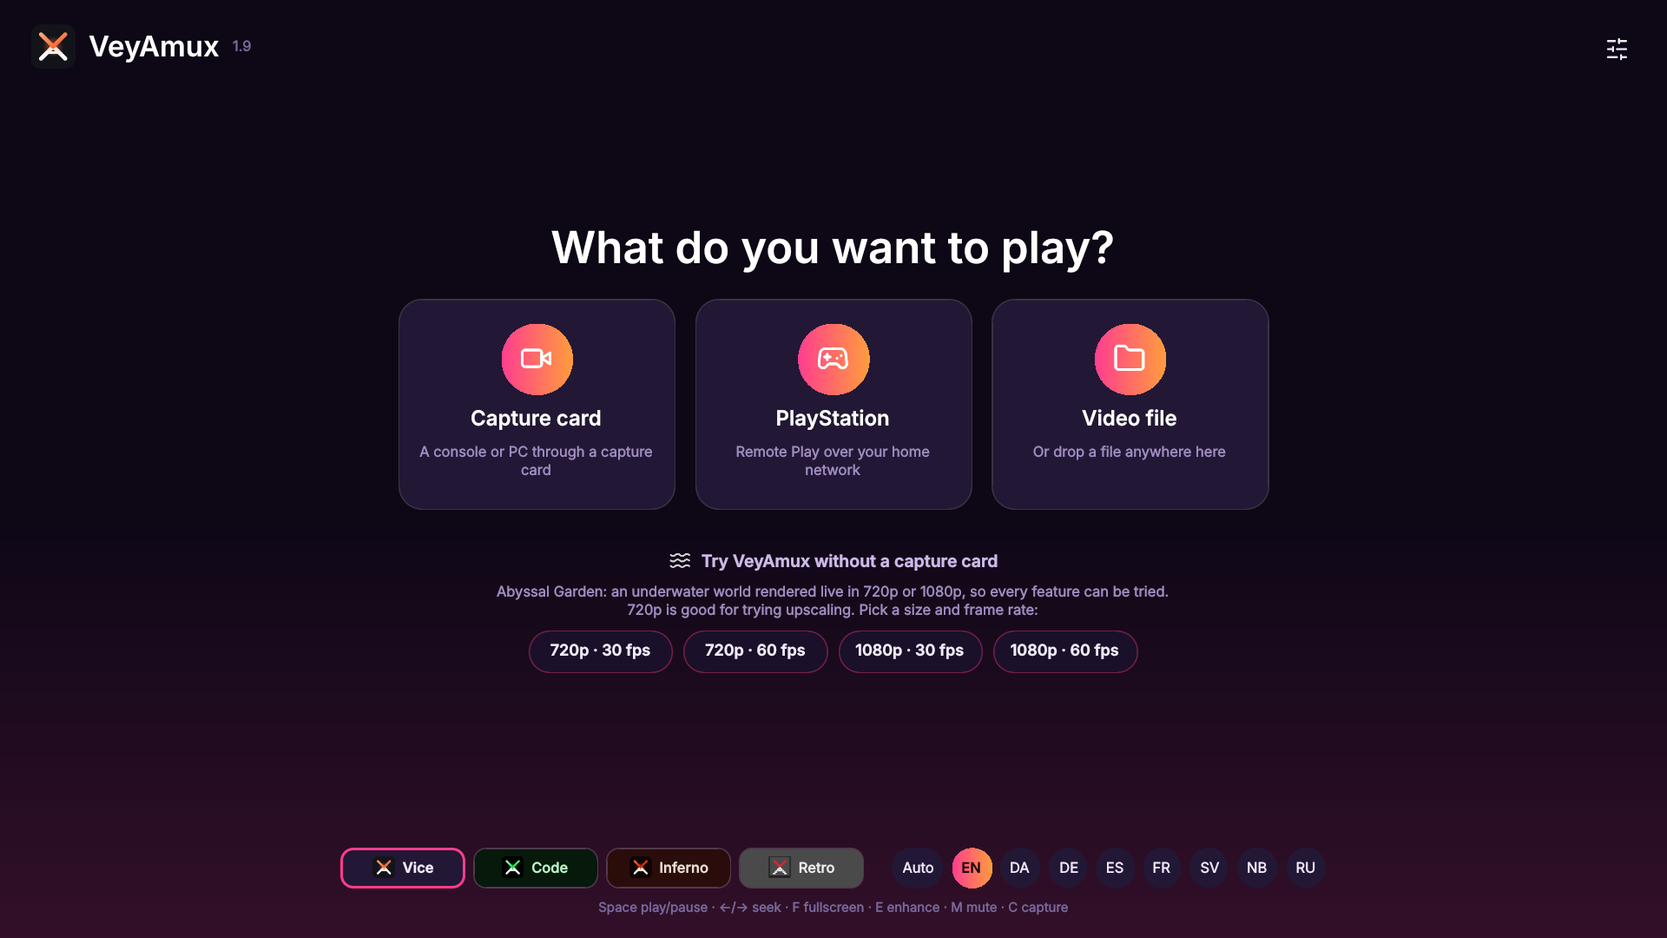
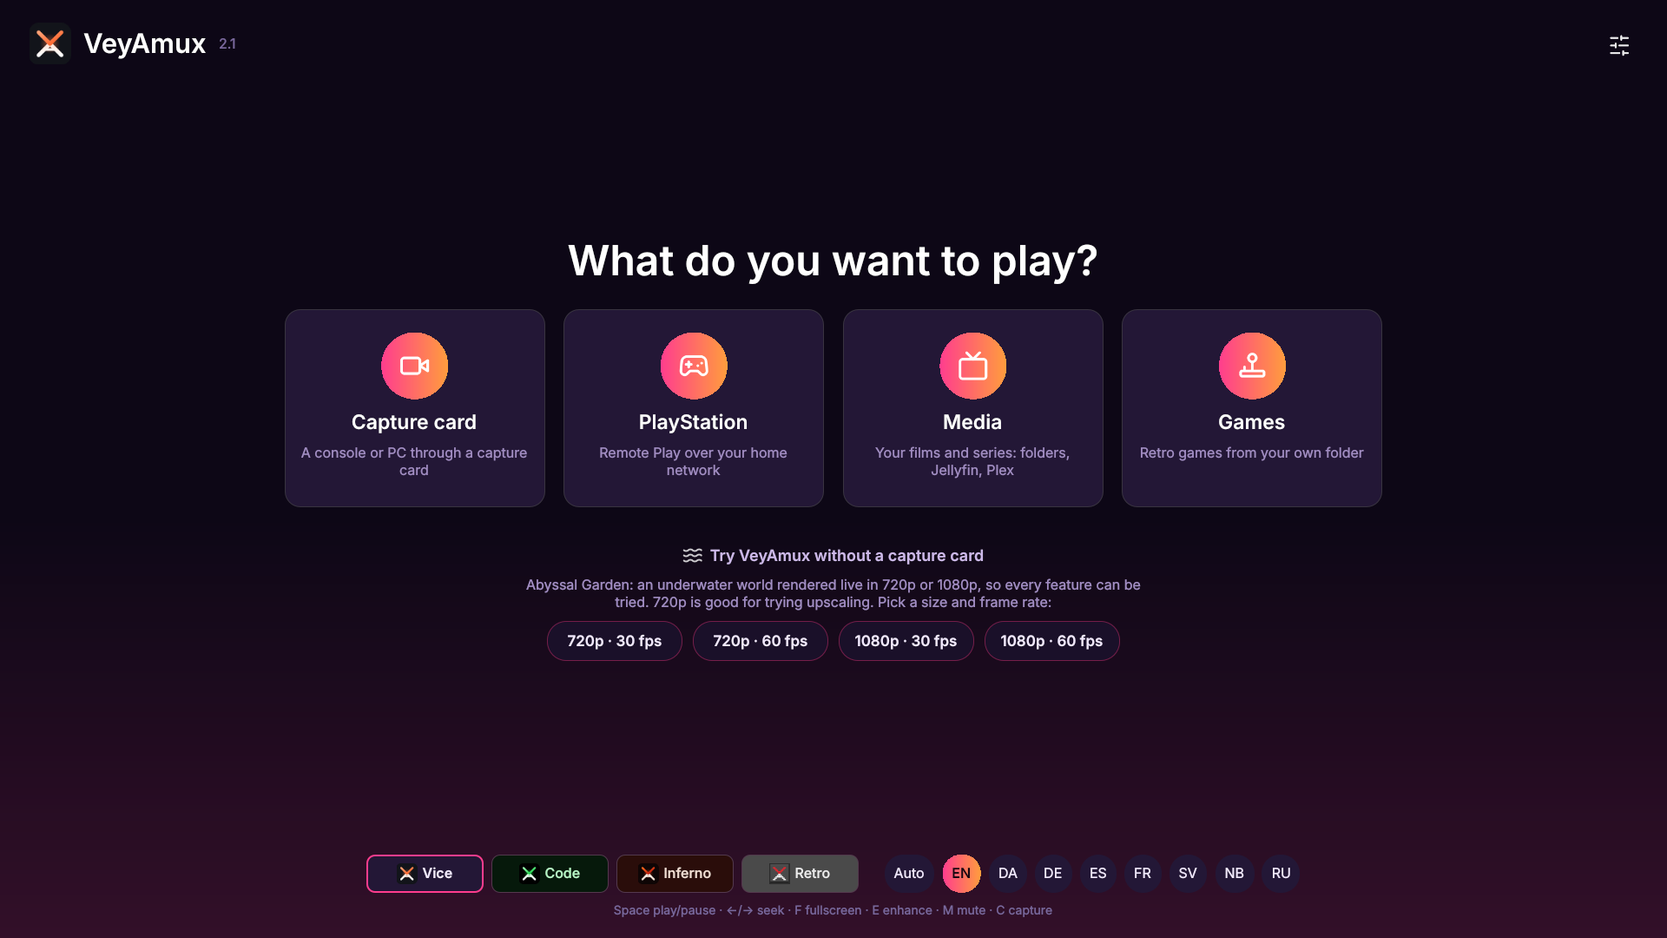
Sync linux/ with VeyAmux 2.1
Claude-Session: https://claude.ai/code/session_01B4TdVpLCa5512iQxziCMJs

diff --git a/linux/src/main.cpp b/linux/src/main.cpp
@@ -133,7 +133,7 @@ int main(int argc, char** argv) {
     QCoreApplication::setOrganizationName("VeyAmux");
     // VeyAmux Debug runs next to VeyAmux with its own settings (~/.config/VeyAmux/VeyAmux-Debug.conf) and data folder
     QCoreApplication::setApplicationName(veyamux::diag::kDebugBuild ? "VeyAmux-Debug" : "VeyAmux");
-    QCoreApplication::setApplicationVersion(veyamux::diag::buildVersion("2.1.0"));
+    QCoreApplication::setApplicationVersion(veyamux::diag::buildVersion("2.1"));
     {
         // the UI probe and the card watcher are helper processes: no log file of their own
         bool helper = false;
@@ -611,6 +611,9 @@ int main(int argc, char** argv) {
     if (!capturePath.isEmpty()) QTimer::singleShot(0, [&] { player.openCaptureAuto(capturePath); });
     if (!openFile.isEmpty()) QTimer::singleShot(0, [&] { player.openPath(openFile); });
     if (!grabPath.isEmpty()) {
+        // (VEYAMUX_GRAB_SIZE=1920x1080: the window's size for the picture, for the README's screenshots)
+        if (const QString gs = qEnvironmentVariable("VEYAMUX_GRAB_SIZE"); gs.contains('x'))
+            win->resize(gs.section('x', 0, 0).toInt(), gs.section('x', 1).toInt());
         QTimer::singleShot(9000, [&] {
             win->grabWindow().save(grabPath);
             QCoreApplication::quit();

diff --git a/linux/README.md b/linux/README.md
@@ -11,7 +11,8 @@
 
 <p align="center">
   Upscaling (NIS · SGSR · FSR&nbsp;3.1.6 · <b>FSR&nbsp;4</b> AI upscaling) · AMD Anti-Lag / NVIDIA Reflex · noise reduction · anti-flicker · FSR&nbsp;3.1.6 TAA · frame generation (Lossless Scaling or free FSR&nbsp;3.1.6) ·
-  HDR · <b>PlayStation Remote Play</b> (PS5 / PS4) · Retro TV (CRT) and pixel-perfect scaling · replay, recording and
+  HDR · <b>PlayStation Remote Play</b> (PS5 / PS4) · <b>Media</b>: your folders, Jellyfin and Plex, with subtitles ·
+  <b>Games</b>: retro consoles from your own folder, with box art · Retro TV (CRT) and pixel-perfect scaling · replay, recording and
   live streaming · window or screen as a source · built-in 3D demo · controller support · Steam Deck · one-click Steam
   shortcut with artwork · 8 languages
   <br>
@@ -20,10 +21,56 @@
 </p>
 
 <p align="center">
-  <img src="docs/images/start.png" width="720" alt="VeyAmux's start screen: What do you want to play? with three cards (Capture card, PlayStation, Video file), the demo buttons (720p and 1080p, 30 and 60 fps), the four themes and the language choice">
+  <img src="docs/images/start.png" width="720" alt="VeyAmux's start screen: What do you want to play? with four cards (Capture card, PlayStation, Media, Games), the demo buttons (720p and 1080p, 30 and 60 fps), the four themes and the language choice">
 </p>
 
 ---
+
+## New in 2.1
+
+- **Media** (in place of *Video file*): your films and series from **your own folders**, a **Jellyfin** server and a
+  **Plex** server, as posters with *Continue watching*.
+  - **Jellyfin:** sign in with your user name and password, or with *Quick Connect* (a code you confirm in another
+    Jellyfin app).
+  - **Plex:** sign in on plex.tv in your browser; every server of the account is added. At home Plex is free; outside
+    your home network Plex wants Plex Pass or a Remote Watch Pass.
+  - **Libraries:** a film or series library opens on *All*, *Recently added*, *Not watched* and *Categories*
+    (genres). Series open on their seasons and episodes.
+  - **Played where you left off:** the position goes back to the server (or, for your own files, is remembered), so
+    *Continue watching* is the same in VeyAmux, the Jellyfin app and the Plex app.
+  - Films are played as they are stored (no transcoding on the server) with all of VeyAmux's processing: FSR 4
+    upscaling, noise reduction, HDR and frame generation work on films too.
+- **Subtitles** for every video: the tracks inside the file (SubRip, ASS, WebVTT, and the pictures of Blu-ray (PGS) and
+  DVD subtitles), files beside the video (`Film.da.srt`, also in Windows-1252) and the subtitle files Jellyfin and Plex
+  keep. The language you pick is remembered for the next films.
+- **Sound tracks:** choose language and format (e.g. *English · AC3 5.1*, *Danish · Commentary*); the language is
+  remembered too. Both have a button in the bottom bar and a row at the top of the menu.
+- **Games:** retro games from your own folder, played inside VeyAmux, with every picture feature (upscaling, Retro TV,
+  frame generation, recording).
+  - **Sorted by itself:** pick one folder; every game is sorted under its system by the folder it lies in (the names
+    RetroArch, ES-DE, EmuDeck, RetroDECK and Batocera use all work), else by its file type, else (CD images) by the
+    disc's own header. `.zip`, `.7z` and `.rar` are unpacked when the emulator cannot read them.
+  - **No emulator to choose:** VeyAmux uses one you already have (RetroArch's, also the Flatpak) or fetches libretro's
+    own build the first time a system is played. 26 systems from the 70s to the 90s: NES, Super Nintendo, Game Boy
+    (Color, Advance), Virtual Boy, Mega Drive, Master System, Game Gear, SG-1000, Mega-CD, 32X, Saturn, PC Engine (and
+    CD), PlayStation, Atari 2600, 7800 and Lynx, Neo Geo Pocket, WonderSwan and arcade (FinalBurn Neo).
+  - **Box art** from libretro's thumbnails with one button (*Get box art*), near names found too; arcade games get
+    their full titles and box art from FinalBurn Neo's game list. Your own picture works as well.
+  - **Games on several discs** (*Disc 1*, *Disc 2*) are one game; the menu changes the disc when the game asks.
+  - **BIOS files** among your games are kept out of the list and copied to the BIOS folder, where the emulators look
+    for them.
+  - Save states, battery saves, the controller (rumble too) and the keyboard; the game pauses while the menu is open.
+- **A home button** in the bottom bar brings you back to the start screen, or to the page the film or game came from.
+
+<p align="center">
+  <img src="docs/images/media.jpg" width="800" alt="The Media page: a Plex server's film library as posters, with how far a film was watched under its poster">
+  <br><sub>A Plex film library on the Media page.</sub>
+</p>
+
+<p align="center">
+  <img src="docs/images/games.jpg" width="800" alt="The Games page: the systems on the left with how many games each has, and Mega Drive games with their box art">
+  <br><sub>The Games page: systems on the left, box art fetched by VeyAmux.</sub>
+</p>
 
 ## New in 2.0
 
@@ -103,7 +150,8 @@ scaling, HUD lock and the VRR warning. New in 1.4: SGSR upscaling and Abyssal Ga
 
 VeyAmux shows the picture from a **capture card** (a PlayStation, Xbox, Switch or another PC), straight from a
 **PS5 or PS4 over your home network** (PlayStation Remote Play, no capture card needed), from a **window or a whole
-screen** on your desktop, or from a **video file**, and makes it look better on your graphics card. It can:
+screen** on your desktop, from your **films and series** (folders, Jellyfin, Plex) or from **retro games** in your own
+folder, and makes it look better on your graphics card. It can:
 
 - **upscale and sharpen** the picture with NVIDIA Image Scaling (NIS), Snapdragon Game Super Resolution (SGSR), AMD FSR 3.1.6 or AMD FSR 4 (AI upscaling, a free add-on);
 - **remove noise**, grain and compression blocks, **calm flickering** detail, and smooth edges with FXAA, SMAA or FSR 3.1.6 TAA;
@@ -140,6 +188,8 @@ needed for its own frame generation**, and everything else works without it:
 | Feature | VeyAmux alone | + Lossless Scaling and lsfg-vk |
 |---|:---:|:---:|
 | Capture cards, video files, windows and screens | ✅ | ✅ |
+| Media: your folders, Jellyfin, Plex (Plex outside the home network: Plex Pass / Remote Watch Pass), subtitles, sound tracks | ✅ | ✅ |
+| Games: retro consoles and arcade (emulators fetched from libretro, BIOS files your own) | ✅ | ✅ |
 | PlayStation Remote Play (PS5 / PS4 on the home network) | ✅ | ✅ |
 | Upscaling: NIS, SGSR, FSR 3.1.6, FSR 4 | ✅ | ✅ |
 | Noise reduction, anti-flicker, sharpness, anti-aliasing (FXAA, FSR 3.1.6 TAA), colour | ✅ | ✅ |
@@ -210,6 +260,31 @@ needed for its own frame generation**, and everything else works without it:
 - **A window or a whole screen** (Wayland: KDE Plasma, GNOME, …): choose *Window or screen …* under **Capture**, and your
   desktop asks what to share, the same way OBS and Discord do. The picture gets all of VeyAmux's processing.
 - **Video files** through FFmpeg, with hardware decoding (VA-API) on AMD and Intel.
+- **Media** (start screen): your own folders, Jellyfin and Plex.
+  - **Add:** *+ Jellyfin* asks for the server's address, then your user name and password, or *Quick Connect*.
+    *+ Plex* opens plex.tv in your browser to sign in, and every server of the account appears on the left.
+    *My folders* takes any folder with videos; posters are read from `poster.jpg` / `<film>-poster.jpg` beside them.
+  - **Browse:** *Continue watching* first, then the libraries; a film or series library has *All*, *Recently added*,
+    *Not watched* and *Categories*. A film opens a card with *Continue from …* and *From the start*.
+  - **Watch:** the server is told how far you got every 10 seconds and when you stop, so *Continue watching* matches
+    its own apps. When the film ends, VeyAmux goes back to the page.
+  - **Subtitles and sound:** the buttons next to *Home* in the bottom bar (or the top of the menu) list the sound
+    tracks and the subtitles. **S** steps through the subtitles.
+  - Sign-ins are kept in VeyAmux's settings (hidden in debug reports) and only ever sent in HTTP headers.
+- **Games** (start screen): pick your games folder once.
+  - **Systems:** NES and Famicom Disk System, Super Nintendo, Game Boy, Game Boy Color, Game Boy Advance, Virtual
+    Boy, Mega Drive / Genesis, Master System, Game Gear, SG-1000, Mega-CD, 32X, Saturn, PC Engine / TurboGrafx-16, PC
+    Engine CD, PlayStation, Atari 2600, Atari 7800, Atari Lynx, Neo Geo Pocket (Color), WonderSwan (Color) and arcade.
+    Systems that need 3D on the graphics card (N64, Dreamcast, PSP, DS) are not there yet.
+  - **Emulators:** found or fetched by themselves (libretro cores; your own RetroArch's are used first). Some need
+    BIOS files (PlayStation's is optional, Mega-CD, Saturn and PC Engine CD need theirs): put them in the folder
+    *BIOS* opens, or anywhere in your games folder.
+  - **Playing:** the controller plays the game (all controllers as player 1, rumble included); **Select + Start** opens
+    the menu and pauses the game. The keyboard: arrows, **Z / X** (B / A), **A / S** (Y / X), **Q / W** (L / R),
+    **Enter** (Start), **Shift** (Select). Save and load a state with the buttons in the bottom bar, **F2 / F4** or
+    the menu; battery saves are kept by themselves.
+  - The picture comes with its own pixel aspect, enlarged by a whole number, so *Retro TV*, *pixel-perfect scaling*
+    and the upscalers all work on it.
 - **What the game really runs at**: the info line shows the measured frame rate and an estimate of the game's own
   rendering resolution, not just the signal. Example: `≈1920×1080 @ 30 fps → 60 fps (Lossless Scaling 2×) · signal 3840×2160 NV12 @ 60 fps`.
 
@@ -472,7 +547,11 @@ hardware. It runs next to VeyAmux and does not touch it:
 
 **Space** play/pause · **←/→** ±5 s (Shift ±30 s) · **↑/↓** volume · **F** fullscreen · **E** enhancement on/off ·
 **P** menu · **M** mute (your speakers only) · **O** open file · **C** capture · **F3** frame-time overlay ·
-**1–9** profiles · **F6** clip marker · **F9** save replay · **F10** record · **F12** screenshot
+**1–9** profiles · **F6** clip marker · **F9** save replay · **F10** record · **F12** screenshot · **S** subtitles ·
+**Home** back to the start screen or the page the film or game came from
+
+**Games:** arrows · **Z / X** B / A · **A / S** Y / X · **Q / W** L / R · **Enter** Start · **Shift** Select · **F2** save state
+· **F4** load state
 
 **Controller:** **Select + Start** (or hold **Guide**) menu · **D-pad / stick** move · **A** choose · **B** close ·
 **LB / RB** menu tabs
@@ -513,7 +592,7 @@ runs NVIDIA's DLSS network through Windows HIP).
 ```sh
 sudo apt install cmake ninja-build g++ pkg-config patchelf file python3 glslang-tools qt6-base-dev qt6-declarative-dev \
   qt6-svg-dev qt6-wayland libvulkan-dev libavformat-dev libavcodec-dev libavutil-dev libswscale-dev libswresample-dev \
-  libpulse-dev libva-dev libpipewire-0.3-dev qml6-module-qtquick qml6-module-qtquick-window qml6-module-qtquick-layouts \
+  libpulse-dev libva-dev libpipewire-0.3-dev libarchive-dev qml6-module-qtquick qml6-module-qtquick-window qml6-module-qtquick-layouts \
   qml6-module-qtqml-workerscript qt6-shader-baker zsync
 ./scripts/build-appimage.sh          # -> dist/VeyAmux-x86_64.AppImage
 ```
@@ -539,6 +618,9 @@ sudo apt install cmake ninja-build g++ pkg-config patchelf file python3 glslang-
   - [Abyssal Garden](https://github.com/Noniv/abyssal-garden) by Maksymilian Dendura (MIT): the demo scene, ported from
     JavaScript to C++
   - [wgpu-native](https://github.com/gfx-rs/wgpu-native) (MIT / Apache-2.0)
+  - The [libretro](https://www.libretro.com) API header (MIT) and libarchive (BSD). The emulators (libretro cores)
+    are **not** part of VeyAmux: they are your RetroArch's or fetched from libretro's build server, under their own
+    licences. Box art comes from [libretro-thumbnails](https://github.com/libretro-thumbnails).
 
   See [THIRD_PARTY_NOTICES_LINUX.md](THIRD_PARTY_NOTICES_LINUX.md).
 - [lsfg-vk](https://lsfg-vk.dev) and [Lossless Scaling](https://store.steampowered.com/app/993090/Lossless_Scaling/) are

diff --git a/linux/docs/TEKNISK.md b/linux/docs/TEKNISK.md
@@ -405,6 +405,45 @@ bygget af `cmake/chiaki.cmake` med system-OpenSSL, libcurl, json-c, miniupnpc, l
   - **Konsollens indkodning** kan ikke måles og vises som "+ konsol ~8 ms".
 - Fejlsøgning: `VEYAMUX_PS_LOG=1` viser hele chiakis log.
 
+## Medier (Jellyfin, Plex, egne mapper)
+`src/MediaLibrary.{h,cpp}` (kontekst-egenskaben `media`), siden er `qml/Library.qml` (fælles med Spil).
+- **Jellyfin:** `Authorization: MediaBrowser Client="VeyAmux", Device, DeviceId, Version, Token`. Login med
+  `/Users/AuthenticateByName` eller Quick Connect (`/QuickConnect/Initiate` POST, GET før 10.9; `/QuickConnect/Connect`;
+  `/Users/AuthenticateWithQuickConnect`). Biblioteker `/UserViews` (`/Users/{id}/Views` før 10.9), indhold `/Items`,
+  sæsoner `/Shows/{id}/Seasons`, genrer `/Genres`, fortsæt `/UserItems/Resume`. Afspilning `/Videos/{id}/stream?static=true`;
+  position til `/Sessions/Playing`, `/Playing/Progress`, `/Playing/Stopped` hvert 10. sekund.
+- **Plex:** PIN-login (`plex.tv/api/v2/pins`, browseren til `app.plex.tv/auth`), servere fra `/api/v2/resources`; den
+  første adresse, der svarer på `/identity` (lokale først, relay sidst). Afspilning `{uri}{Part.key}`, position
+  `/:/timeline`, set `/:/scrobble`, plakater `/photo/:/transcode`.
+- **Tokens** ligger i `media/servers/<id>/token` (rapporten skjuler nøgler med "token") og sendes kun som HTTP-headers,
+  også til FFmpeg (`headers`-optionen); en stream med headers genåbnes ikke efter genstart (`openFile_` tom).
+- **Undertekster** (`src/Subtitles.{h,cpp}`, `src/PlayerBridgeSubtitles.cpp`): sporet i filen afkodes i demux-tråden
+  (`avcodec_decode_subtitle2`, ASS-tekst uden formatkoder, PGS/DVD som RGBA); filer ved siden af og fra serveren
+  laves om til UTF-8 (ellers Latin-1) og afkodes helt. Billed-undertekster vises gennem billedudbyderen `image://subs`.
+- **Lydspor:** FFmpeg afkoder ét spor; et andet spor åbner filen igen samme sted (`setPreferredAudio`). Sproget gemmes
+  i `audio/lang`, undertekster i `subs/lang`.
+- **Test:** `tests/mock_media_server.py` (falsk Jellyfin + Plex) og `VEYAMUX_TEST_MEDIA=jellyfin:<url>` / `plex:<url>`.
+
+## Spil (libretro)
+`src/Libretro.{h,cpp}` er en lille libretro-frontend: kilde `retro:<system>` + lydkilde `@retro`, så billedet går
+gennem alt som et capture-kort. `src/GameLibrary.{h,cpp}` (kontekst-egenskaben `games`) scanner, sorterer, finder
+kerner og henter covers; `src/PlayerBridgeGames.cpp` starter spillet.
+- **Kerne-tråd:** `retro_set_environment`, `retro_init`, derefter de øvrige callbacks (RetroArchs rækkefølge; Mesen
+  crasher ellers). Kørt i kernens fps; kun software-kerner (`SET_HW_RENDER` afvises). Kommandoer uden data afvises,
+  undtagen dem der betyder noget uden (GPGX's "ingen diskkontrol").
+- **Billede:** konverteret til RGBA, roteret, forstørret med et helt tal (højde op til 1080) og strakt til kernens
+  aspect. **Lyd:** kø i kernens rate, resamplet til 48 kHz med en rate der følger køens fyld (±0,5 %).
+- **Kerner:** egen mappe (`~/.local/share/VeyAmux/VeyAmux/games/cores`), RetroArch (Flatpak, native, Steam), systemets;
+  ellers `buildbot.libretro.com/nightly/linux/x86_64/latest/<kerne>_libretro.so.zip`. Arkiver (zip, 7z, rar) med libarchive.
+- **Sortering:** mappenavn (RetroArch/ES-DE/EmuDeck/Batocera-navne), ellers filtype, ellers diskens header (cue/iso/m3u).
+  BIOS-filer springes over og kopieres til BIOS-mappen. Flere diske samles i en `.m3u` i `games/playlists`;
+  diskskift med libretros disk control (bakken åbnes, disken skiftes, bakken lukkes efter 60 billeder).
+- **Covers:** `thumbnails.libretro.com/<system>/Named_Boxarts/<navn>.png`, ellers GitHub (`libretro-thumbnails`;
+  symlinks følges); nærmeste navn fra serverens liste eller GitHubs git-træ (gemt en uge). Arkade: titler fra FBNeo's
+  DAT (`games/arcade-names.tsv`). Ikke fundne gemmes i `games/covers-missing.txt` til næste scanning.
+- **Test:** `veyamux-retro-test <kerne> <spil>` og `tests/run_retro_test.sh` (Gambatte + dmg-acid2, Genesis Plus GX),
+  `VEYAMUX_TEST_GAME=<fil>`, `VEYAMUX_TEST_COVERS=1`, `VEYAMUX_TEST_PAGE=media|games|audio`, `VEYAMUX_GRAB_SIZE=1920x1080`.
+
 ## Retter billedrytmen (frame pacing repair)
 Menu → *Frame generation* → *Ret billedrytmen* (`enh/pacingRepair`, slået fra). `src/FramePacingRepair.h` er taget fra
 Veyra-NRVideo 2.2.0, som har den fra PushFPS (GPL-3.0-or-later, DosukaSOL og PushFPS-bidragyderne), uændret bortset fra

diff --git a/linux/RELEASE_NOTES.md b/linux/RELEASE_NOTES.md
@@ -1,11 +1,36 @@
-## VeyAmux-V.2.0.1
+## VeyAmux-V.2.1
 
-### Fix
-- **Less delay on a console's dashboard and menus.** A picture that hardly moves (the PS5 dashboard, a pause screen)
-  only gets a few new pictures a second. *Even out frame pacing* still held each of them for an even rhythm, so the
-  delay figure rose to about 60 ms and the menu felt slow. Pictures that hardly move (under 12 new pictures a second) now go straight through; in a
-  game the pacing works as before.
-- The delay figure says when it comes from a still picture (it is then based on only a few pictures).
+VeyAmux is no longer only for what comes through a cable: **your films and series** and **your retro games** now
+have their own pages on the start screen, with the same look, the controller and every picture feature.
+
+### Media (in place of *Video file*)
+- **Your own folders, Jellyfin and Plex** as posters, with *Continue watching*.
+  - **Jellyfin:** user name and password, or *Quick Connect*.
+  - **Plex:** sign in on plex.tv in your browser; every server of the account is added. At home Plex is free; outside
+    your home network Plex wants Plex Pass or a Remote Watch Pass.
+- Film and series libraries open on **All, Recently added, Not watched and Categories** (genres).
+- **Where you left off** goes back to the server, so *Continue watching* matches the Jellyfin and Plex apps.
+- **Subtitles:** the tracks inside the file (also Blu-ray and DVD picture subtitles), files beside the video
+  (`Film.da.srt`) and the server's subtitle files.
+- **Sound tracks:** language and format (e.g. *English · AC3 5.1*). Both have a button in the bottom bar; the
+  languages you pick are remembered.
+- Films are played as they are stored and get all of VeyAmux's processing: FSR 4, noise reduction, HDR, frame
+  generation.
+
+### Games
+- **Pick one folder** and every game is sorted under its system by itself (folder name, file type or the disc's
+  header). `.zip`, `.7z` and `.rar` work.
+- **No emulator to choose:** your RetroArch's is used, or libretro's own build is fetched the first time. 26 systems:
+  NES, Super Nintendo, Game Boy (Color, Advance), Mega Drive, Master System, Game Gear, Mega-CD, 32X, Saturn, PC
+  Engine (CD), PlayStation, Atari, Neo Geo Pocket, WonderSwan, arcade and more.
+- **Box art** with one button (*Get box art*), from libretro's thumbnails; arcade games get their full titles.
+- **Games on several discs** are one game; the menu changes the disc when the game asks.
+- **BIOS files** in your games folder are kept out of the list and copied to the BIOS folder.
+- Save states, battery saves, controller with rumble, keyboard; the game pauses while the menu is open.
+
+### Also
+- A **home button** in the bottom bar goes back to the start screen, or to the page the film or game came from.
+- Since 2.0.1: less delay on a console's dashboard and menus.
 
 Everything new in 2.0 (AMD FSR 4 with FP8 on RDNA 4, AMD Anti-Lag / NVIDIA Reflex, and more) is in the
 [2.0 release notes](https://github.com/8BiTw0LF/VeyAmux/releases/tag/VeyAmux-V.2.0).
@@ -14,5 +39,6 @@ Everything new in 2.0 (AMD FSR 4 with FP8 on RDNA 4, AMD Anti-Lag / NVIDIA Refle
 Already on 1.6 or newer? VeyAmux offers the update by itself (on the start screen and under *System*). Otherwise,
 download `VeyAmux-x86_64.AppImage` below, make it executable (`chmod +x`) and run it.
 
-Lossless Scaling frame generation still needs your own copy of Lossless Scaling (Steam) and lsfg-vk. VeyAmux does not
-include either of them. FSR 4 is AMD's (MIT); the add-on is an unofficial build and not from AMD.
+VeyAmux includes no emulators, BIOS files or games: the emulators are your RetroArch's or libretro's own builds, under
+their own licences. Lossless Scaling frame generation still needs your own copy of Lossless Scaling (Steam) and
+lsfg-vk. FSR 4 is AMD's (MIT); the add-on is an unofficial build and not from AMD.

diff --git a/linux/THIRD_PARTY_NOTICES_LINUX.md b/linux/THIRD_PARTY_NOTICES_LINUX.md
@@ -24,6 +24,7 @@ processing design are reused, and VeyAmux is distributed under the same GPL-3.0 
 | Qt 6 (incl. Qt Network for the local OBS stream), FFmpeg, PulseAudio client, libva | bundled in the AppImage by linuxdeploy | LGPL-3.0 / LGPL-2.1+ | Unmodified distribution packages. |
 | chiaki-ng v1.10.1 (PlayStation Remote Play protocol library) with nanopb, jerasure and gf-complete | `third_party/chiaki-ng`, linked statically into `veyamux` | AGPL-3.0-only with OpenSSL exception (`third_party/chiaki-ng/LICENSES`, `COPYING`); nanopb: zlib; jerasure, gf-complete: BSD-3-Clause | https://github.com/streetpea/chiaki-ng tag v1.10.1, `lib/` unchanged; details in `third_party/chiaki-ng/VEYAMUX_README.md`. **Because of it, the VeyAmux program as distributed is under the AGPL-3.0** (VeyAmux's own code stays GPL-3.0, GPL-3.0 section 13). |
 | OpenSSL, libcurl, json-c, miniupnpc, libevent, Opus (used by chiaki-ng) | bundled in the AppImage by linuxdeploy | Apache-2.0 / curl / MIT / BSD-3-Clause / BSD-3-Clause / BSD-3-Clause | Unmodified distribution packages. |
+| libarchive (zip, 7z and rar games; downloaded emulator cores) | bundled in the AppImage by linuxdeploy | BSD-2-Clause | Unmodified distribution package. |
 | Microsoft DirectXShaderCompiler | build tool only | University of Illinois/NCSA | Not shipped. |
 | Abyssal Garden (demo scene) | `src/abyssal/` (C++ port of the JavaScript), `src/abyssal/wgsl/` (WGSL shaders, unchanged) | MIT (`third_party/abyssal-garden/LICENSE`, Copyright (c) 2026 Maksymilian Dendura) | https://github.com/Noniv/abyssal-garden commit `a596354eff400d458bc2aeb9bdf5e0a9734b2bcf`. The world generator, renderer and camera are translated to C++; the audio graph is rebuilt as a synthesiser with a different reverb. |
 | wgpu-native v29.0.0.0 (WebGPU on Vulkan, with wgpu-core, wgpu-hal and naga) | linked statically into `veyamux` | MIT or Apache-2.0 (`third_party/wgpu-native/LICENSE.MIT`, `LICENSE.APACHE`) | https://github.com/gfx-rs/wgpu-native release `v29.0.0.0` (`wgpu-linux-x86_64-release.zip`, SHA-256 in `scripts/fetch-tools.sh`), unmodified. |
